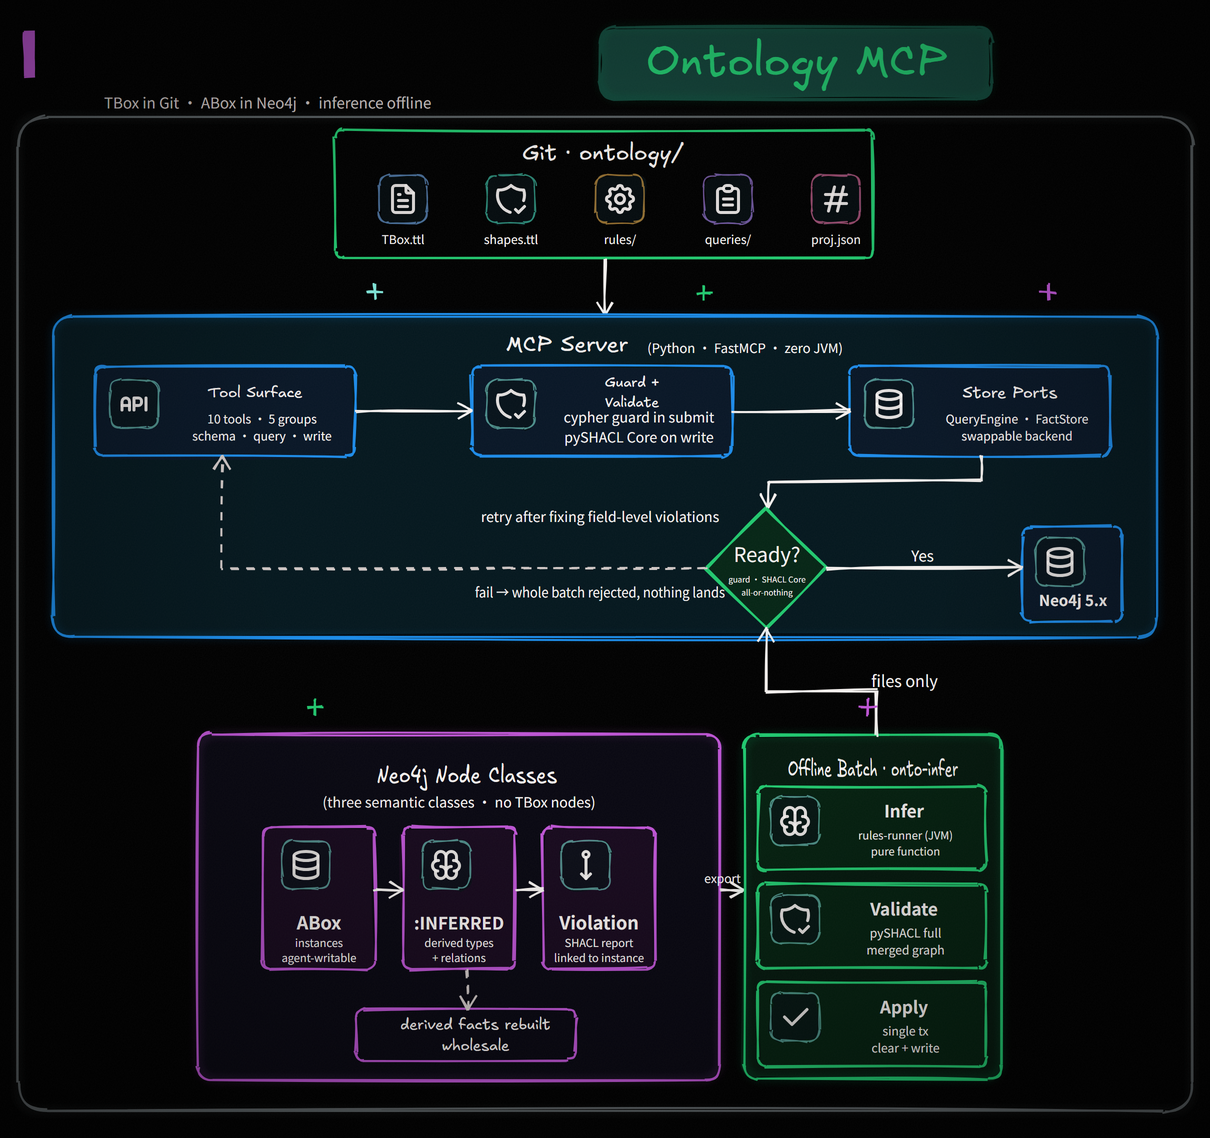
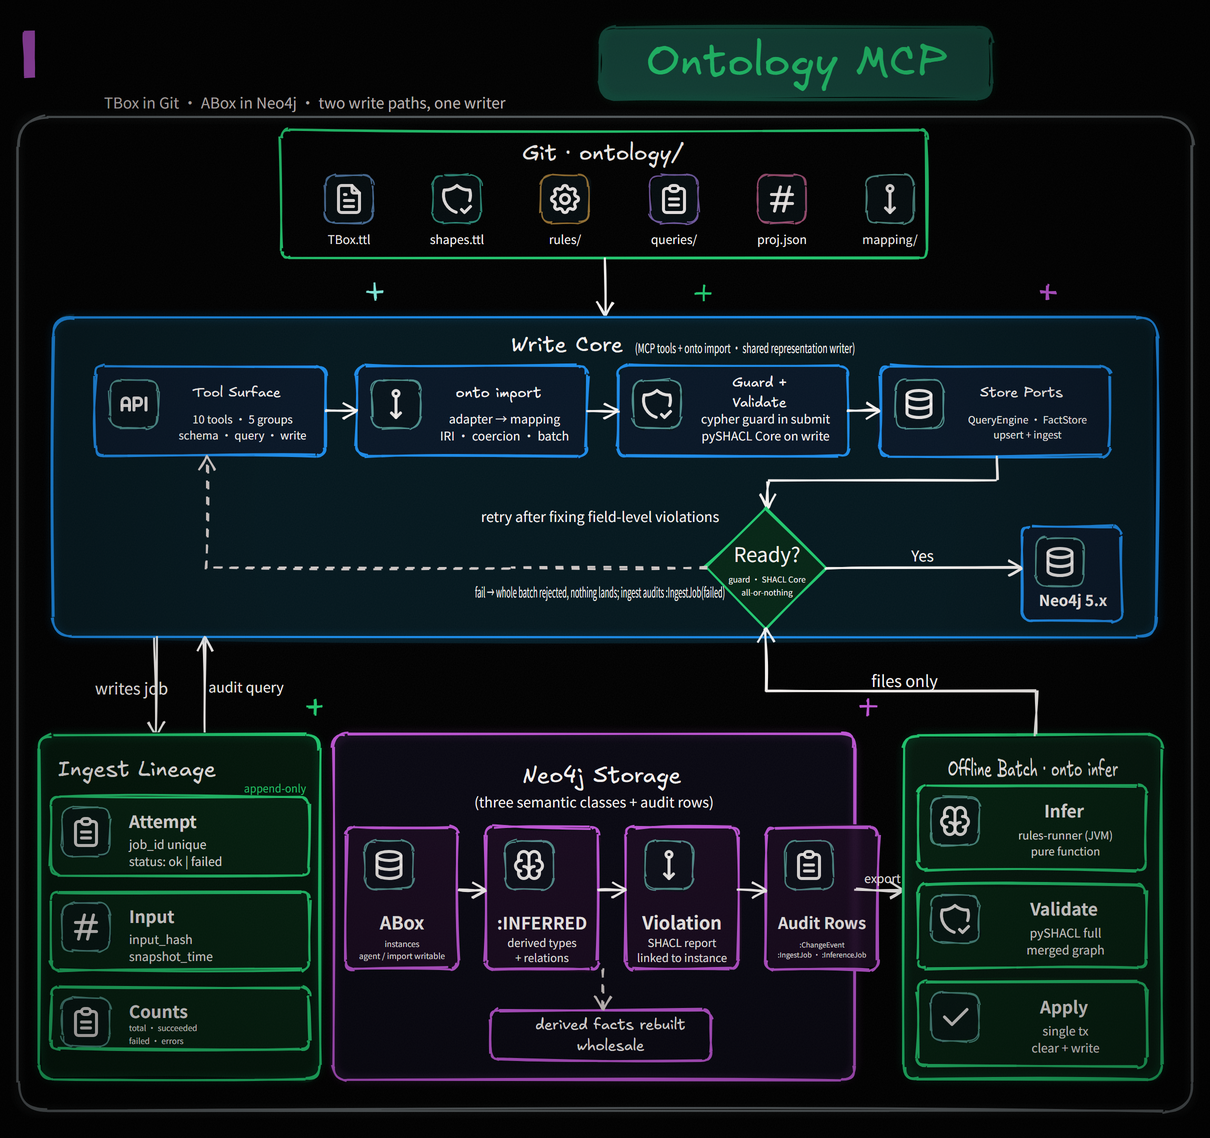
docs: redraw architecture and add Chain D diagram

diff --git a/README.md b/README.md
@@ -222,6 +222,8 @@ Between a write and the next `onto infer`, `:INFERRED` is stale. Three places ha
 
 ### Chain D — batch ingest (`onto import`)
 
+![Chain D — batch ingest](misc/diagrams/chain-d.gif)
+
 Real enterprise data lives in ERP / MES / WMS systems, not in Turtle. `onto import`
 runs one batch through the same representation writer and write-time SHACL check as
 the agent tools, so imported facts and tool-written facts are indistinguishable.
